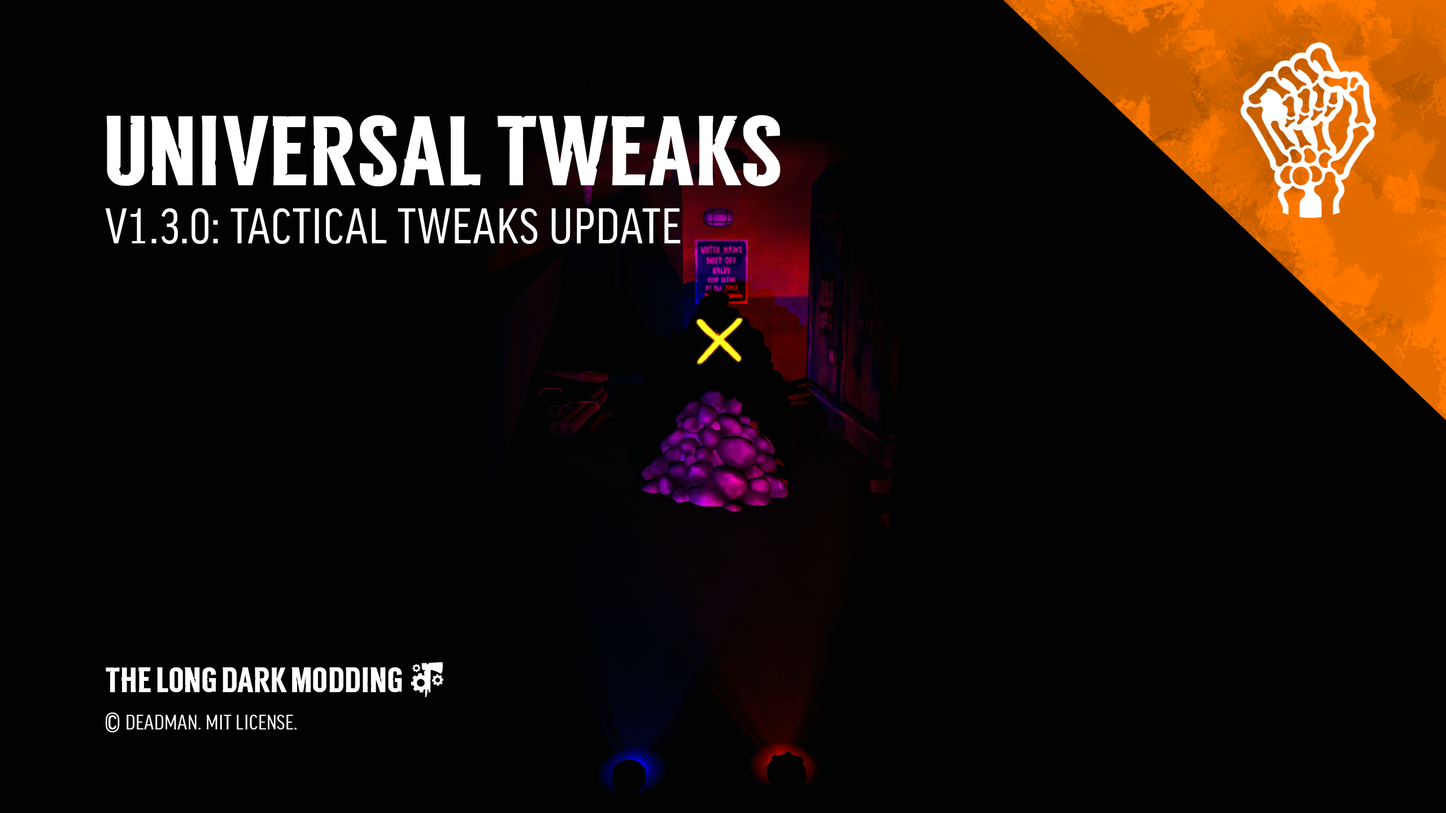
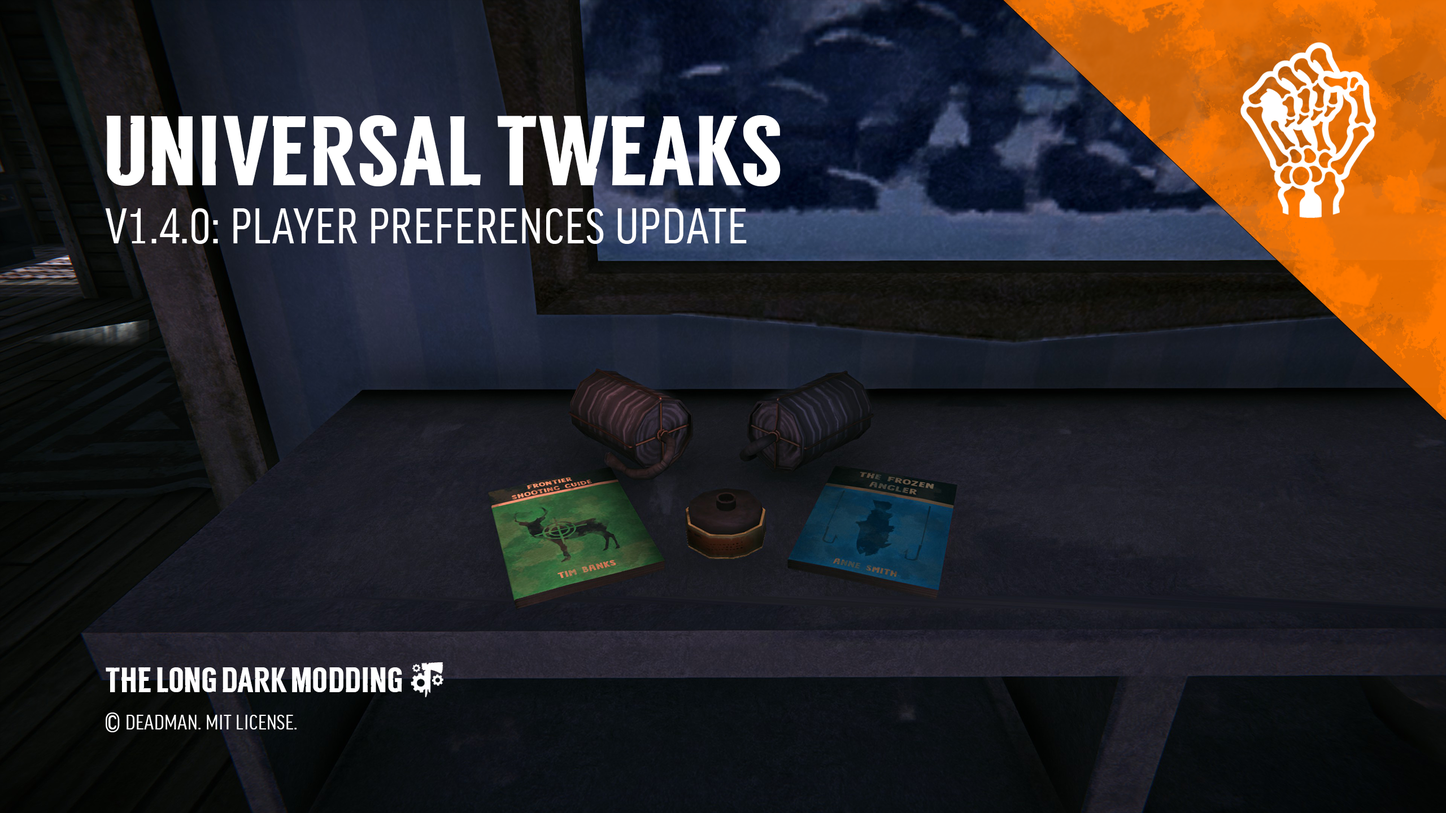
v1.4.0 release!

diff --git a/VisualStudio/Properties/BuildInfo.cs b/VisualStudio/Properties/BuildInfo.cs
@@ -8,7 +8,7 @@ internal static class BuildInfo
     /// <summary>Who made the mod</summary>
     public const string Author                          = "Deadman";
     /// <summary>Current version (e.g. 1.0.0, 1.0.0-alpha, 1.0.0-beta, 1.0.0-rc, etc.)</summary>
-    public const string Version                         = "1.4.0-DeveloperBuild";
+    public const string Version                         = "1.4.0";
     /// <summary>Version shown in DnSpy</summary>
     public const string AssemblyVersion                 = "1.4.0.0";
     /// <summary>Name used on GUI's, like ModSettings</summary>

diff --git a/VisualStudio/TweaksMiscellaneous.cs b/VisualStudio/TweaksMiscellaneous.cs
@@ -5,7 +5,7 @@ namespace UniversalTweaks;
 internal class TweaksMiscellaneous
 {
     [HarmonyPatch(typeof(GearItem), nameof(GearItem.Drop))]
-    public class TestingPatch
+    public class RandomizedItemRotation
     {
         private static void Postfix(GearItem __instance)
         {

diff --git a/README.md b/README.md
@@ -7,6 +7,9 @@
 
 [![Latest Release](https://img.shields.io/github/v/release/Deaadman/UniversalTweaks?label=Latest%20Release&style=for-the-badge)](https://github.com/Deaadman/UniversalTweaks/releases/latest)
 
+[![Feature Requests](https://img.shields.io/github/issues-search/Deaadman/UniversalTweaks?label=Feature%20Requests&style=for-the-badge&query=is%3Aissue+is%3Aopen+label%3A%22feature+request%22)](https://github.com/Deaadman/UniversalTweaks/issues?q=is%3Aissue+is%3Aopen+label%3A%22feature+request%22)
+[![Bug Reports](https://img.shields.io/github/issues-search/Deaadman/UniversalTweaks?label=Bug%20Reports&color=red&style=for-the-badge&query=is%3Aissue+is%3Aopen+label%3A%22bug+report%22)](https://github.com/Deaadman/UniversalTweaks/issues?q=is%3Aissue+is%3Aopen+label%3A%22bug+report%22)
+
 [![Total Downloads](https://img.shields.io/github/downloads/Deaadman/UniversalTweaks/total.svg?style=for-the-badge)](https://github.com/Deaadman/UniversalTweaks/releases)
 [![Latest Downloads](https://img.shields.io/github/downloads/Deaadman/UniversalTweaks/latest/total.svg?style=for-the-badge)](https://github.com/Deaadman/UniversalTweaks/releases)
 
@@ -20,45 +23,52 @@ Universal Tweaks is a modification that enhances existing gameplay elements by m
 
 #### General Tweaks
 - **Breath Effects Control:** Choose whether to display the character's visible breath effect.
-- **MRE Texture Variant:** Switch between the traditional blue and a new brown texture for MREs.
-- **Promotional Items Removal:** Opt to remove promotional menu items for WINTERMUTE and expansions from the main menu.
 - **Constant Crosshair Visibility:** Keep the crosshair permanently visible, regardless of the player's actions.
-- **Headache-Free Pies:** Remove the headache debuff caused by consuming Peach and Rosehip Pies.
+- **Don't Burn Research Books:** If a research book hasn't been fully researched, it won't show up as a viable fuel option.
+- **Headache-Free Foods:** Remove the headache debuff caused by consuming porridges and pies.
 - **Improved Revolver Handling:** Allow movement while aiming with the revolver.
+- **Insulated Flasks Duration:** Customise how long the heat lasts inside insulated flasks.
+- **MRE Texture Variant:** Switch between the traditional blue and a new brown texture for MREs.
+- **Noisemaker Adjustments:** Choose how long the fuse lasts or how far the player can throw noisemakers.
+- **Promotional Items Removal:** Opt to remove promotional menu items for WINTERMUTE and expansions from the main menu.
+- **Randomised Item Rotation:** When an item is dropped, make it drop in a random direction.
+- **Respirator Canister Duration:** Determine how long the canisters for respirators last.
 - **Slower Snow Shelter Decay:** Adjust the rate at which snow shelters degrade over time.
 - **Toilet Water Quality Setting:** Decide whether water from toilets starts as potable or non-potable.
 
 #### Flashlight Tweaks
-- **Aurora-Dependent Flickering:** Make flashlights only flicker during aurora events.
-- **Random Battery Charge:** Start with a random battery charge level for added unpredictability.
 - **All-Time Functionality:** Enable flashlight usage anytime, not limited to auroras.
-- **High-Beam Limitation:** Restrict the flashlight's high beam mode to auroras only.
-- **Customizable Beam Colors:** Alter the color of flashlight beams for standard and miner's flashlights.
+- **Aurora-Dependent Flickering:** Make flashlights only flicker during aurora events.
 - **Beam Duration & Recharge Options:** Adjust the duration of low and high beams and set recharge times.
+- **Customizable Beam Colors:** Alter the color of flashlight beams for standard and miner's flashlights.
+- **High-Beam Limitation:** Restrict the flashlight's high beam mode to auroras only.
 - **Infinite Battery Life:** Ensure the flashlight never runs out of battery, for uninterrupted use.
+- **Random Battery Charge:** Start with a random battery charge level for added unpredictability.
 
 #### Rock Cache Tweaks
-- **Indoor Placement Option:** Allow building rock caches indoors, expanding placement possibilities.
 - **Adjustable Region Limits:** Set a custom maximum number of rock caches per region.
+- **Indoor Placement Option:** Allow building rock caches indoors, expanding placement possibilities.
 - **Minimum Cache Distance Setting:** Determine the necessary spacing between each rock cache.
 
 #### Spray Paint Tweaks
+- **Brightness Control for Glowing Decals:** Adjust the intensity of the glow effect on decals.
 - **Decal Placement Flexibility:** Modify how closely decals can be placed to one another.
 - **Glowing Decals Feature:** Enable a glow effect for spray paint decals, visible in dark environments.
-- **Brightness Control for Glowing Decals:** Adjust the intensity of the glow effect on decals.
 
 #### Travois Tweaks
 - **Decay Rate Customization:** Choose from various settings to control how quickly the travois deteriorates.
-- **Turn Speed Adjustment:** Fine-tune the speed at which the travois can rotate.
+- **Movement Restrictions:** Change whether movement is restricted or not.
 - **Slope Navigation Capability:** Set the maximum steepness the travois can handle.
+- **Turn Speed Adjustment:** Fine-tune the speed at which the travois can rotate.
+- **Unlimited Interaction:** Easily travel indoors anywhere with this setting on.
 
 #### Miscellaneous Tweaks
-- **Resetting Snares:** Easier to reset snares just from the inspect menu after a rabbit is captured.
 - **Fire Sprite Fix:** Realigned the currently misaligned fire sprite within the feed fire ui panel.
 - **Improved Radial Menu:** Spray paint cans are now greyed out if no can is found within the inventory.
+- **Resetting Snares:** Easier to reset snares just from the inspect menu after a rabbit is captured.
 
 > [!NOTE]
-> Many of these features were suggested by people in [**The Long Dark Modding Discord**](https://discord.gg/2mnXAZfGXQ). If you have a request, either create an [**issue**](https://github.com/Deaadman/UniversalTweaks/issues) or ask me in the discord!
+> Many of these features were suggested by people in [**The Long Dark Modding Discord**](https://discord.gg/2mnXAZfGXQ). You can see which features they've requested on each [**release**](https://github.com/Deaadman/UniversalTweaks/releases). If you have a request, either create an [**issue**](https://github.com/Deaadman/UniversalTweaks/issues) or ask me in the discord!
 
 ---
 
@@ -74,9 +84,10 @@ For optimal functionality of this modification, ensure you have the following ve
 
 ### Incompatible Mods:
 
-Avoid using the following mods with "UniversalTweaks" as they might result in game crashes, data loss, or unforeseen issues:
+Avoid using the following mods below with this one as they may result in game crashes, data loss, or unforeseen issues:
 
 - [**Disable Breath Effects**](https://github.com/Thekillergreece/DisableBreathEffect)
+- [**Enable Feat Progress In Custom Mode**](https://github.com/RomainDeschampsFR/EnableFeatProgressInCustomModeLegacy)
 - [**TLD_NonPotableToiletWater**](https://github.com/Ezinw/TLD_NonPotableToiletWater)
 - [**Unlimited Rock Caches**](https://github.com/dommrogers/UnlimitedRockCaches) 
 
@@ -96,6 +107,7 @@ Avoid using the following mods with "UniversalTweaks" as they might result in ga
 
 ### **Integrated Mods**:
 - **[Disable Breath Effects](https://github.com/Thekillergreece/DisableBreathEffect)** by [**Thekillergreece**](https://github.com/Thekillergreece) and [**zeobviouslyfakeacc**](https://github.com/zeobviouslyfakeacc).
+- [**Enable Feat Progress In Custom Mode**](https://github.com/RomainDeschampsFR/EnableFeatProgressInCustomModeLegacy) by [**Romain**](https://github.com/RomainDeschampsFR).
 - **[TLD_NonPotableToiletWater](https://github.com/Ezinw/TLD_NonPotableToiletWater)** by [**Ezinw**](https://github.com/Ezinw).
 - **[Unlimited Rock Caches](https://github.com/dommrogers/UnlimitedRockCaches)** by [**STBlade**](https://github.com/dommrogers).
 
@@ -104,28 +116,6 @@ Avoid using the following mods with "UniversalTweaks" as they might result in ga
 
 ### Translations:
 - [**Elderly-Emre**](https://github.com/Elderly-Emre) - For providing Turkish translations.
-
-### **Feature Requests**:
-- **Bisexual Bastard** 
-    - Requested for a brown MRE texture variant.
-- **Data-0**
-    - Requested for rock caches to be built indoors.
-- **FarcryBliss** 
-    - Requested to lift spray paint restrictions.
-    - Requested an infinite battery option.
-- **Mentat** 
-    - Requested the snares reset option from the inspect menu.
-- [**Romain**](https://github.com/RomainDeschampsFR) 
-    - Requested to be able to move while aiming with a revolver.
-    - Requested left-handed animations.
-- **StrayCat** 
-    - Requested a slower decay for Snow Shelters.
-- **Valerie** 
-    - Requested for the removal of the headache debuff from pies.
-- **V3n0m**
-    - Requested options to change the recharge and beam durations of flashlights.
-- **WheelChairCutie** 
-    - Requested for the crosshair to always be visible.
 
 > [!NOTE]
 > This modification is not officially a part of The Long Dark and is not affiliated with Hinterland Studio Inc or its affiliates.
